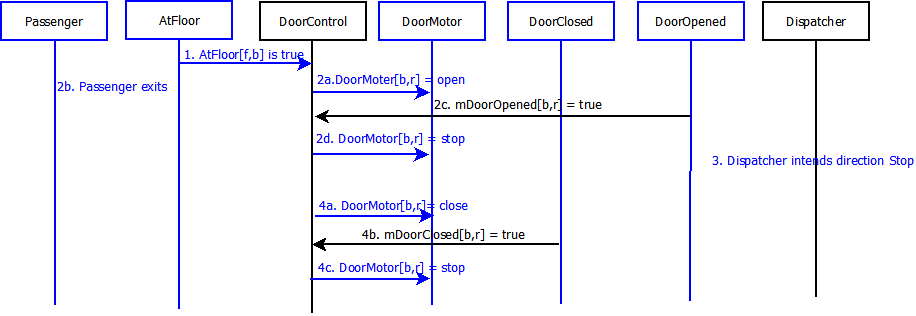
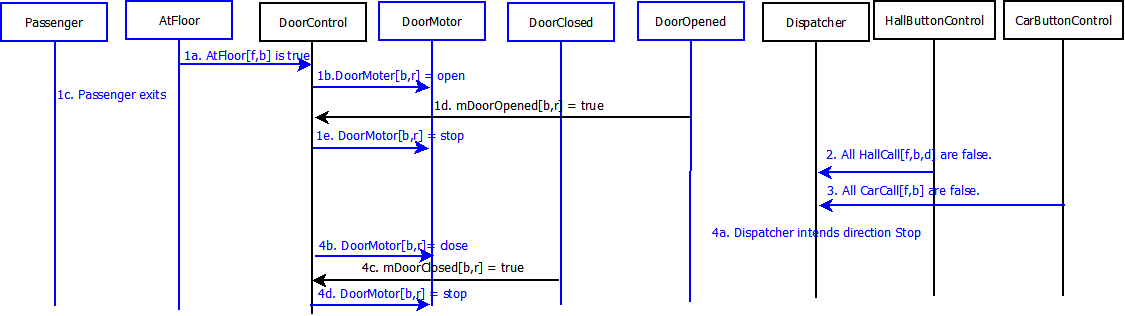
7A, 7B, 7C updated

Changed region(s): [[0.0, 0.0, 1.0, 0.9684]]

diff --git a/scen_sd/scen_sd.html b/scen_sd/scen_sd.html
@@ -8,11 +8,11 @@
     <link rel="Edit-Time-Data" href="proj2_scenarios_files/editdata.mso">
     <title>18-649 Scenarios and Sequence Diagrams</title>
   </head>
-  <body vlink="blue" link="blue">
+  <body link="blue" vlink="blue">
     <div class="Section1">
       <h1 align="center"> 18-649 Scenarios and Sequence Diagrams </h1>
       <div align="center">
-        <hr size="2" width="100%" align="center"> </div>
+        <hr align="center" size="2" width="100%"> </div>
       <p>18649 &lt;semester&gt;<br>
         Group #9 s&nbsp; <br>
       </p>
@@ -53,7 +53,7 @@
         <li><a href="#usecase9">9. Cycle Doors</a></li>
       </ul>
       <div align="center">
-        <hr size="2" width="100%" align="center"> </div>
+        <hr align="center" size="2" width="100%"> </div>
       <h2> <a name="usecase1" id="usecase1"></a>Use Case 1: Passenger
         Makes A Hall Call </h2>
       <h3> <a name="scenario1a" id="scenario1a"></a>Scenario 1A:
@@ -83,7 +83,7 @@
             name="_x0000_i1027" style="border: 0px solid ; width: 602px;
             height: 237px;"></a> </p>
       <div align="center">
-        <hr size="2" width="100%" align="center"> </div>
+        <hr align="center" size="2" width="100%"> </div>
       <h3> <a name="scenario1b" id="scenario1b"></a>Scenario 1B:
         Passenger arrives at a hallway when elevator is already there
         and the car is traveling in the same direction as desired by
@@ -120,7 +120,7 @@
             name="_x0000_i1029" style="border: 0px solid ; width:
             1042px; height: 338px;"></a> </p>
       <div align="center">
-        <hr size="2" width="100%" align="center"> </div>
+        <hr align="center" size="2" width="100%"> </div>
       <h3> <a name="scenario1c" id="scenario1c"></a>Scenario 1C:
         Passenger arrives at a hallway when elevator is already there
         and the car is traveling in opposite direction as desired by
@@ -156,7 +156,7 @@
             name="_x0000_i1031" style="border: 0px solid ; width:
             1044px; height: 340px;"></a> </p>
       <div align="center">
-        <hr size="2" width="100%" align="center"> </div>
+        <hr align="center" size="2" width="100%"> </div>
       <h2> <a name="usecase2" id="usecase2"></a>Use Case 2: Passenger
         Makes A Car Call </h2>
       <h3> <a name="scenario2a" id="scenario2a"></a>Scenario 2A:
@@ -190,9 +190,9 @@
       </ul>
       <h3> Sequence Diagram:</h3>
       <a href="scenario2a.png"><img alt="2A" src="scenario2a.png"
-          width="987" border="0" height="337"></a>
+          border="0" height="337" width="987"></a>
       <div align="center">
-        <hr size="2" width="100%" align="center"> </div>
+        <hr align="center" size="2" width="100%"> </div>
       <h3> <a name="scenario2b" id="scenario2b"></a>2B: Passenger is in
         the car and the elevator has arrived at the passenger's desired
         floor, but passenger has not yet exited the car as the doors
@@ -237,9 +237,9 @@
       </ul>
       <h3> Sequence Diagram: </h3>
       <a href="scenario2b.png"><img alt="2B" src="scenario2b.png"
-          width="576" border="0" height="337"></a>
+          border="0" height="337" width="576"></a>
       <div align="center">
-        <hr size="2" width="100%" align="center"> </div>
+        <hr align="center" size="2" width="100%"> </div>
       <p> &nbsp; </p>
       <h2> <a name="usecase3" id="usecase3"></a>Use Case 3: Passenger
         Enters Elevator </h2>
@@ -294,9 +294,9 @@
       </ul>
       <h3> Sequence Diagram: </h3>
       <a href="scenario3a.png"><img alt="3A" src="scenario3a.png"
-          width="1127" border="0" height="402"></a>
+          border="0" height="402" width="1127"></a>
       <div align="center">
-        <hr size="2" width="100%" align="center"> </div>
+        <hr align="center" size="2" width="100%"> </div>
       <p> &nbsp; </p>
       <h2> <a name="usecase4" id="usecase4"></a>Use Case 4: Passenger
         Exits Elevator </h2>
@@ -326,17 +326,17 @@
         <li>Passenger is outside the elevator. </li>
       </ul>
       <h3> Sequence Diagram: </h3>
-      <a href="Wenhui_4.png"><img alt="3A" src="Wenhui_4.png"
-          width="700" border="0" height="300"></a>
+      <a href="Wenhui_4.png"><img alt="3A" src="Wenhui_4.png" border="0"
+          height="300" width="700"></a>
       <div align="center">
-        <hr size="2" width="100%" align="center"> </div>
+        <hr align="center" size="2" width="100%"> </div>
       <p> &nbsp; </p>
       <h2> <a name="usecase5" id="usecase5"></a>Use Case 5: Passenger
         Triggers Door Reversal </h2>
       <h3> <a name="scenario5a" id="scenario5a"></a>Scenario 5A:
         Passenger attempts to enter the car as the doors begin to close.
       </h3>
-      <h3> Author name: Priya Mahajan (priyam@andrew.cmu.edu)<br>
+      <h3> Author name: Priya Mahajan<br>
       </h3>
       <h3> Pre-Conditions: </h3>
       <ul type="disc">
@@ -363,15 +363,14 @@
           </b></li>
       </ul>
       <h3> Sequence Diagram: </h3>
-      <img alt="" src="Priya_5A.png" width="909" height="330">
       <p> <a href="proj2_scenario5a.gif"><br>
         </a> </p>
       <div align="center">
-        <hr size="2" width="100%" align="center"> </div>
+        <hr align="center" size="2" width="100%"> </div>
       <h3> <a name="scenario5b" id="scenario5b"></a>Scenario 5B:
         Passenger attempts to exit the car as the doors begin to close.
       </h3>
-      <h3> Author name: Priya Mahajan (priyam@andrew.cmu.edu)<br>
+      <h3> Author name: Priya Mahajan<br>
       </h3>
       <h3> Pre-Conditions: </h3>
       <ul type="disc">
@@ -396,11 +395,10 @@
         <li>All doors[<b>b</b>,<b>r</b>] are completely open. </li>
       </ul>
       <h3> Sequence Diagram: </h3>
-      <img alt="" src="Priya_5B.png" width="909" height="370">
       <p> <a href="proj2_scenario5b.gif"><br>
         </a> </p>
       <div align="center">
-        <hr size="2" width="100%" align="center"> </div>
+        <hr align="center" size="2" width="100%"> </div>
       <p> &nbsp; </p>
       <h2> <a name="usecase6" id="usecase6"></a>Use Case 6: Determine
         Car Position </h2>
@@ -414,7 +412,7 @@
         CarLevelPosition Sensor to plan when to slow down. You will be
         given information on how to design a Fast Drive in the upcoming
         projects. For Project 2, a Slow Drive will suffice.</p>
-      <h3> Author name: Priya Mahajan (priyam@andrew.cmu.edu)<br>
+      <h3> Author name: Priya Mahajan<br>
       </h3>
       <h3> Pre-Conditions: </h3>
       <ul type="disc">
@@ -426,11 +424,12 @@
       <ol>
         <li>Car Position indicator shows floor x.<br>
         </li>
-        <li>Car Lantern for floor[y,g] is already lit.(Desired floor).</li>
-        <li>Car is moving towards floor y.</li>
-        <li>Car reaches floor y (Desired floor). <br>
+        <li>Car is moving towards floor y.<br>
         </li>
-        <li>Car Position Indicator shows floor y<br>
+        <li>Car Lantern for floor[y,g] is already lit.(Desired floor)<br>
+        </li>
+        <li>Car reaches floor y (Desired floor). Car Position Indicator
+          shows floor y<br>
         </li>
         <li>Car stops.<br>
         </li>
@@ -443,11 +442,10 @@
         </li>
       </ul>
       <h3> Sequence Diagram: </h3>
-      <img alt="" src="Priya_6A.png" width="992" height="318">
       <p> <a href="proj2_scenario6.gif"><br>
         </a> </p>
       <div align="center">
-        <hr size="2" width="100%" align="center"> </div>
+        <hr align="center" size="2" width="100%"> </div>
       <p> &nbsp; </p>
       <h2> <a name="usecase7" id="usecase7"></a>Use Case 7: Determine
         Car Direction </h2>
@@ -467,16 +465,17 @@
       </ul>
       <h3> Scenario: </h3>
       <ul>
-        <li>Elevator stops at floor <b>f</b>, this is one passenger's
-          destination.</li>
+      </ul>
+      <ol>
         <li>Elevator opens doors to let the passenger exit.</li>
-        <li>Another passenger pressed the hall call button at floor <b>f1</b>.</li>
-        <li>Dispatcher intends direction <b>d</b> to pick up the next
-          passenger at floor <b>f1</b>.</li>
+        <li>The hall call button[<b>f1</b>,<b>b</b>,<b>d</b>] has been
+          pressed<b></b>.</li>
         <li>CarLantern[<b>d</b>] is on.<br>
         </li>
         <li>Elevator closes doors.<br>
         </li>
+      </ol>
+      <ul>
       </ul>
       <h3> Post-Conditions:<br>
       </h3>
@@ -484,13 +483,13 @@
         <li>All doors are closed.</li>
         <li>CarLantern[<b>d</b>] is on.<br>
         </li>
-        <li>Elevator starts from floor f, moving in direction <b>d</b>.<br>
+        <li>Elevator intends to move in direction <b>d</b>.<br>
         </li>
       </ul>
       <h3> Sequence Diagram: </h3>
-      <img alt="" src="SD_7A_YujiaWang.png" width="1481" height="364"><br>
+      <img alt="" src="SD_7A_YujiaWang.png" height="364" width="1481"><br>
       <div align="center">
-        <hr size="2" width="100%" align="center"> </div>
+        <hr align="center" size="2" width="100%"> </div>
       <h3> <a name="scenario7b" id="scenario7b"></a>Scenario 7B:
         Elevator arrives at a hallway and the desired direction is Stop.
       </h3>
@@ -506,24 +505,29 @@
       </ul>
       <h3> Scenario:</h3>
       <ul>
-        <li>Elevator stops at floor <b>f</b>, this is one passenger's
-          destination.</li>
+      </ul>
+      <ol>
         <li>Elevator opens doors to let the passenger exit.</li>
-        <li>Dispatcher intends direction <b>Stop</b>, with enabled
-          pickup in hallway <b>b</b>.</li>
+        <li>There is no other hall call from any other floor.</li>
+        <li>All Car Call lights are inactive or all CarCallLight[<b>f</b>,<b>b</b>]
+          are false.</li>
+        <li>Elevator stops at hallway <b>b</b>.<br>
+        </li>
         <li>Elevator closes doors.<br>
         </li>
+      </ol>
+      <ul>
       </ul>
       <h3> </h3>
       <h3> Post-Conditions: </h3>
       <ul>
         <li>All doors are closed.</li>
-        <li>Elevator starts from floor f, and stays <b>Stop</b>.</li>
+        <li>Elevator stops at floor <b>f</b><b></b>.</li>
       </ul>
       <h3> Sequence Diagram: </h3>
-      <img alt="" src="SD_7B_YujiaWang.png" width="916" height="316"><br>
+      <img alt="" src="SD_7B_YujiaWang.png" height="316" width="916"><br>
       <div align="center">
-        <hr size="2" width="100%" align="center"> </div>
+        <hr align="center" size="2" width="100%"> </div>
       <h3> <a name="scenario7c" id="scenario7c"></a>Scenario 7C:
         Elevator doors close on a hallway. </h3>
       <h3> Author name: Yujia Wang </h3>
@@ -533,24 +537,28 @@
       </ul>
       <h3> Scenario: </h3>
       <ul>
+      </ul>
+      <ol>
         <li>The passenger exits.</li>
         <li>Dispatcher intends direction <b>Stop</b>.</li>
         <li>Elevator closes doors.</li>
+      </ol>
+      <ul>
       </ul>
       <h3> Post-Conditions:</h3>
       <ul>
         <li>All doors are closed.</li>
-        <li>Elevator starts from floor f, staying <b>Stop</b>.<br>
+        <li>Elevator stops at floor <b>f</b>.<br>
         </li>
       </ul>
       <h3> </h3>
       <h3> Sequence Diagram:</h3>
-      <img alt="" src="SD_7C_YujiaWang.png" width="710" height="248"><br>
+      <img alt="" src="SD_7C_YujiaWang.png" height="248" width="710"><br>
       <h3></h3>
       <p> <a href="proj2_scenario7c.gif"><br>
         </a> </p>
       <div align="center">
-        <hr size="2" width="100%" align="center"> </div>
+        <hr align="center" size="2" width="100%"> </div>
       <p> &nbsp; </p>
       <h2> <a name="usecase8" id="usecase8"></a>Use Case 8: Move Car to
         Next Floor </h2>
@@ -581,7 +589,7 @@
       </ul>
       <h3> Sequence Diagram: </h3>
       <div align="center">
-        <hr size="2" width="100%" align="center"> </div>
+        <hr align="center" size="2" width="100%"> </div>
       <p> &nbsp; </p>
       <h2> <a name="usecase9" id="usecase9"></a>Use Case 9: Cycle Doors
       </h2>
